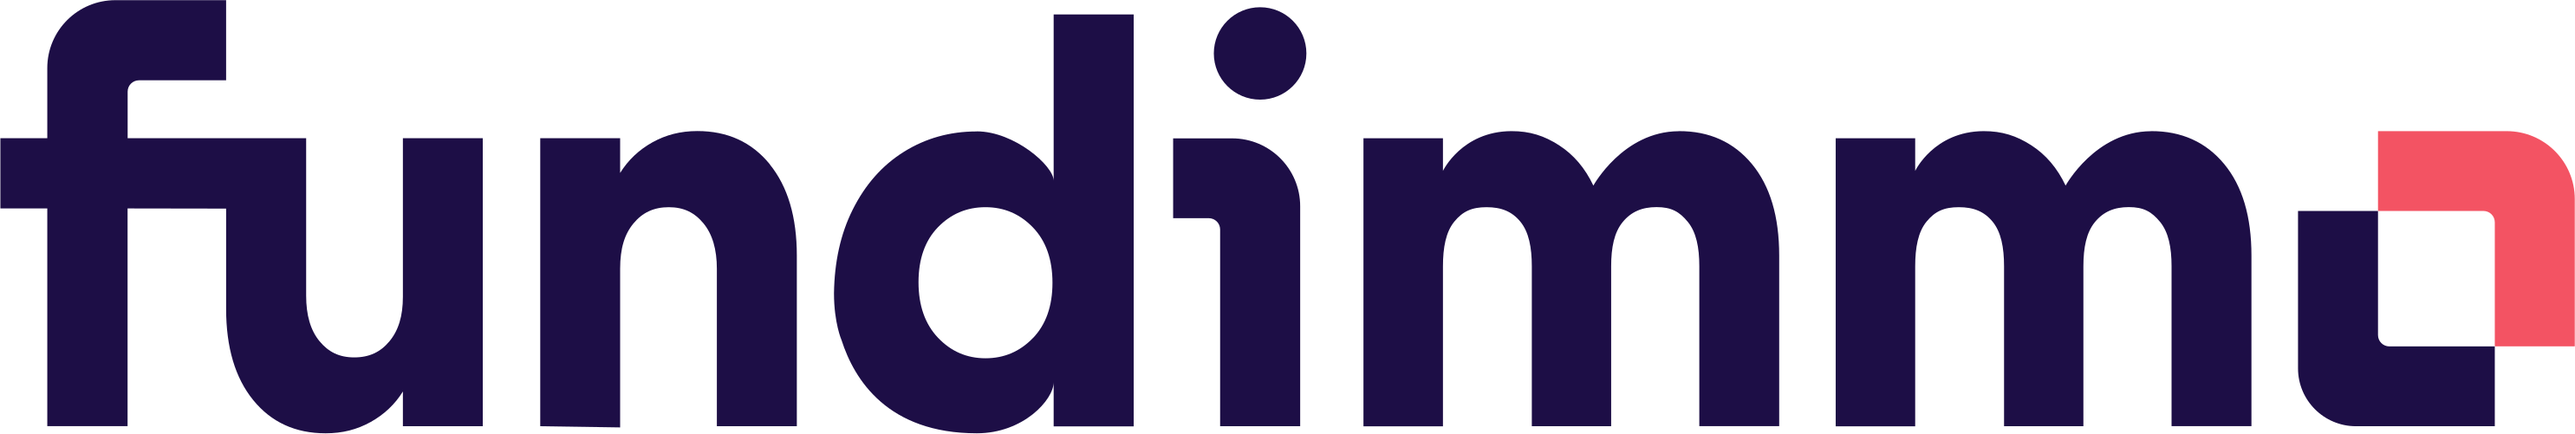
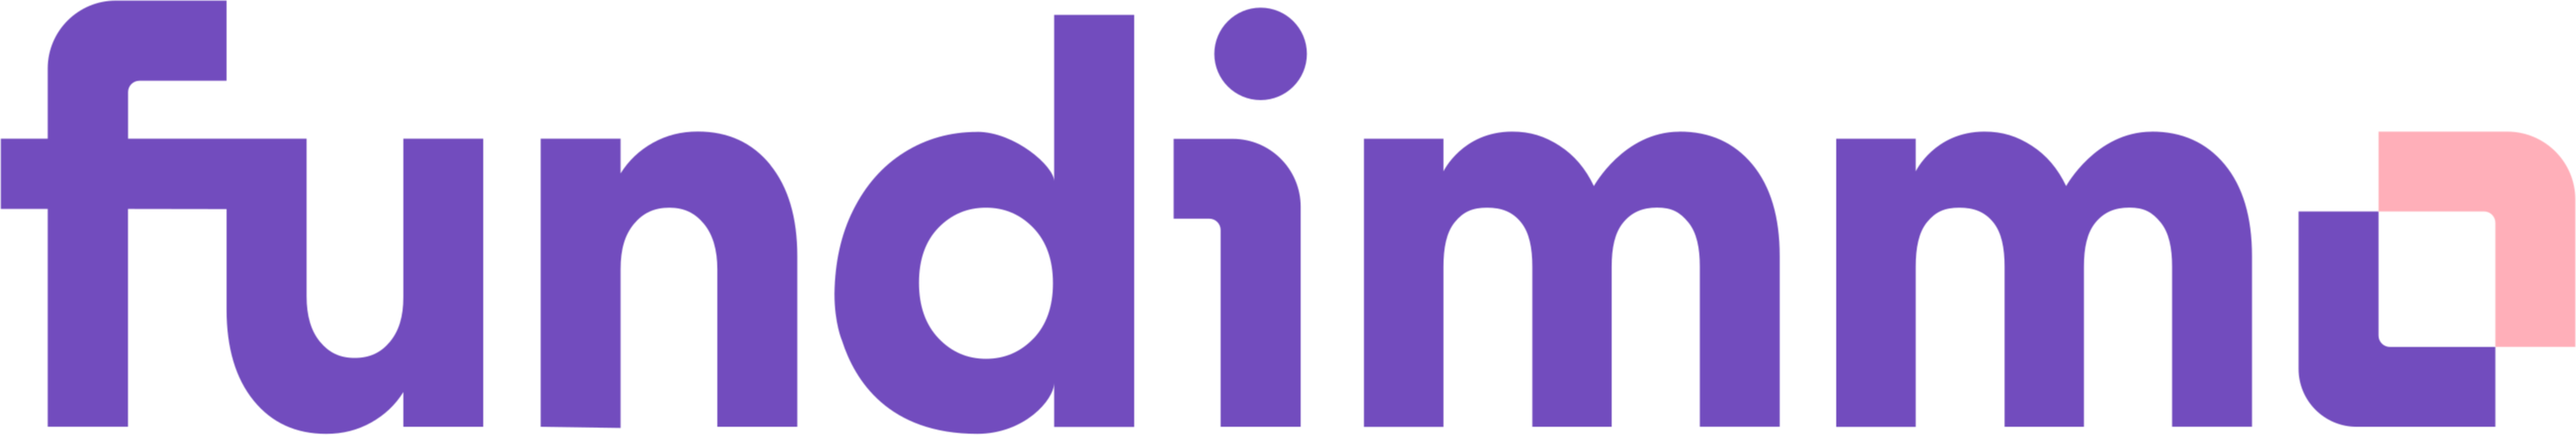
! NOT VITAL FOR PROJECT +AlertTest +changed images contrast

diff --git a/src/App.js b/src/App.js
@@ -7,6 +7,7 @@ import Footer from "./components/Navs/Footer"
 import ScrollTo from "./components/Navs/ScrollTo"
 import AppRouter from "./components/AppRouter/AppRouter"
 import Navs from "./components/Navs/Navs"
+import AlertTest from "./components/Forms/AlertTest"
 
 export default function App() {
 	return (
@@ -27,6 +28,7 @@ export default function App() {
 			</div>
 
 			<Footer />
+			<AlertTest />
 
 		</div>
 	)

diff --git a/src/components/Forms/AlertTest.js b/src/components/Forms/AlertTest.js
@@ -1,0 +1,13 @@
+export default function AlertTest() {
+	function alert_() {
+		if (localStorage.getItem("alert")) {
+			return
+		}
+		if (window.confirm("DEAR CLIENT! This site is hosted for free, so it can load up to 30-60 seconds, your site will load INSTANTLY!")) {
+			localStorage.setItem("alert", true)
+		}
+	}
+	return (
+		alert_()
+	)
+}
